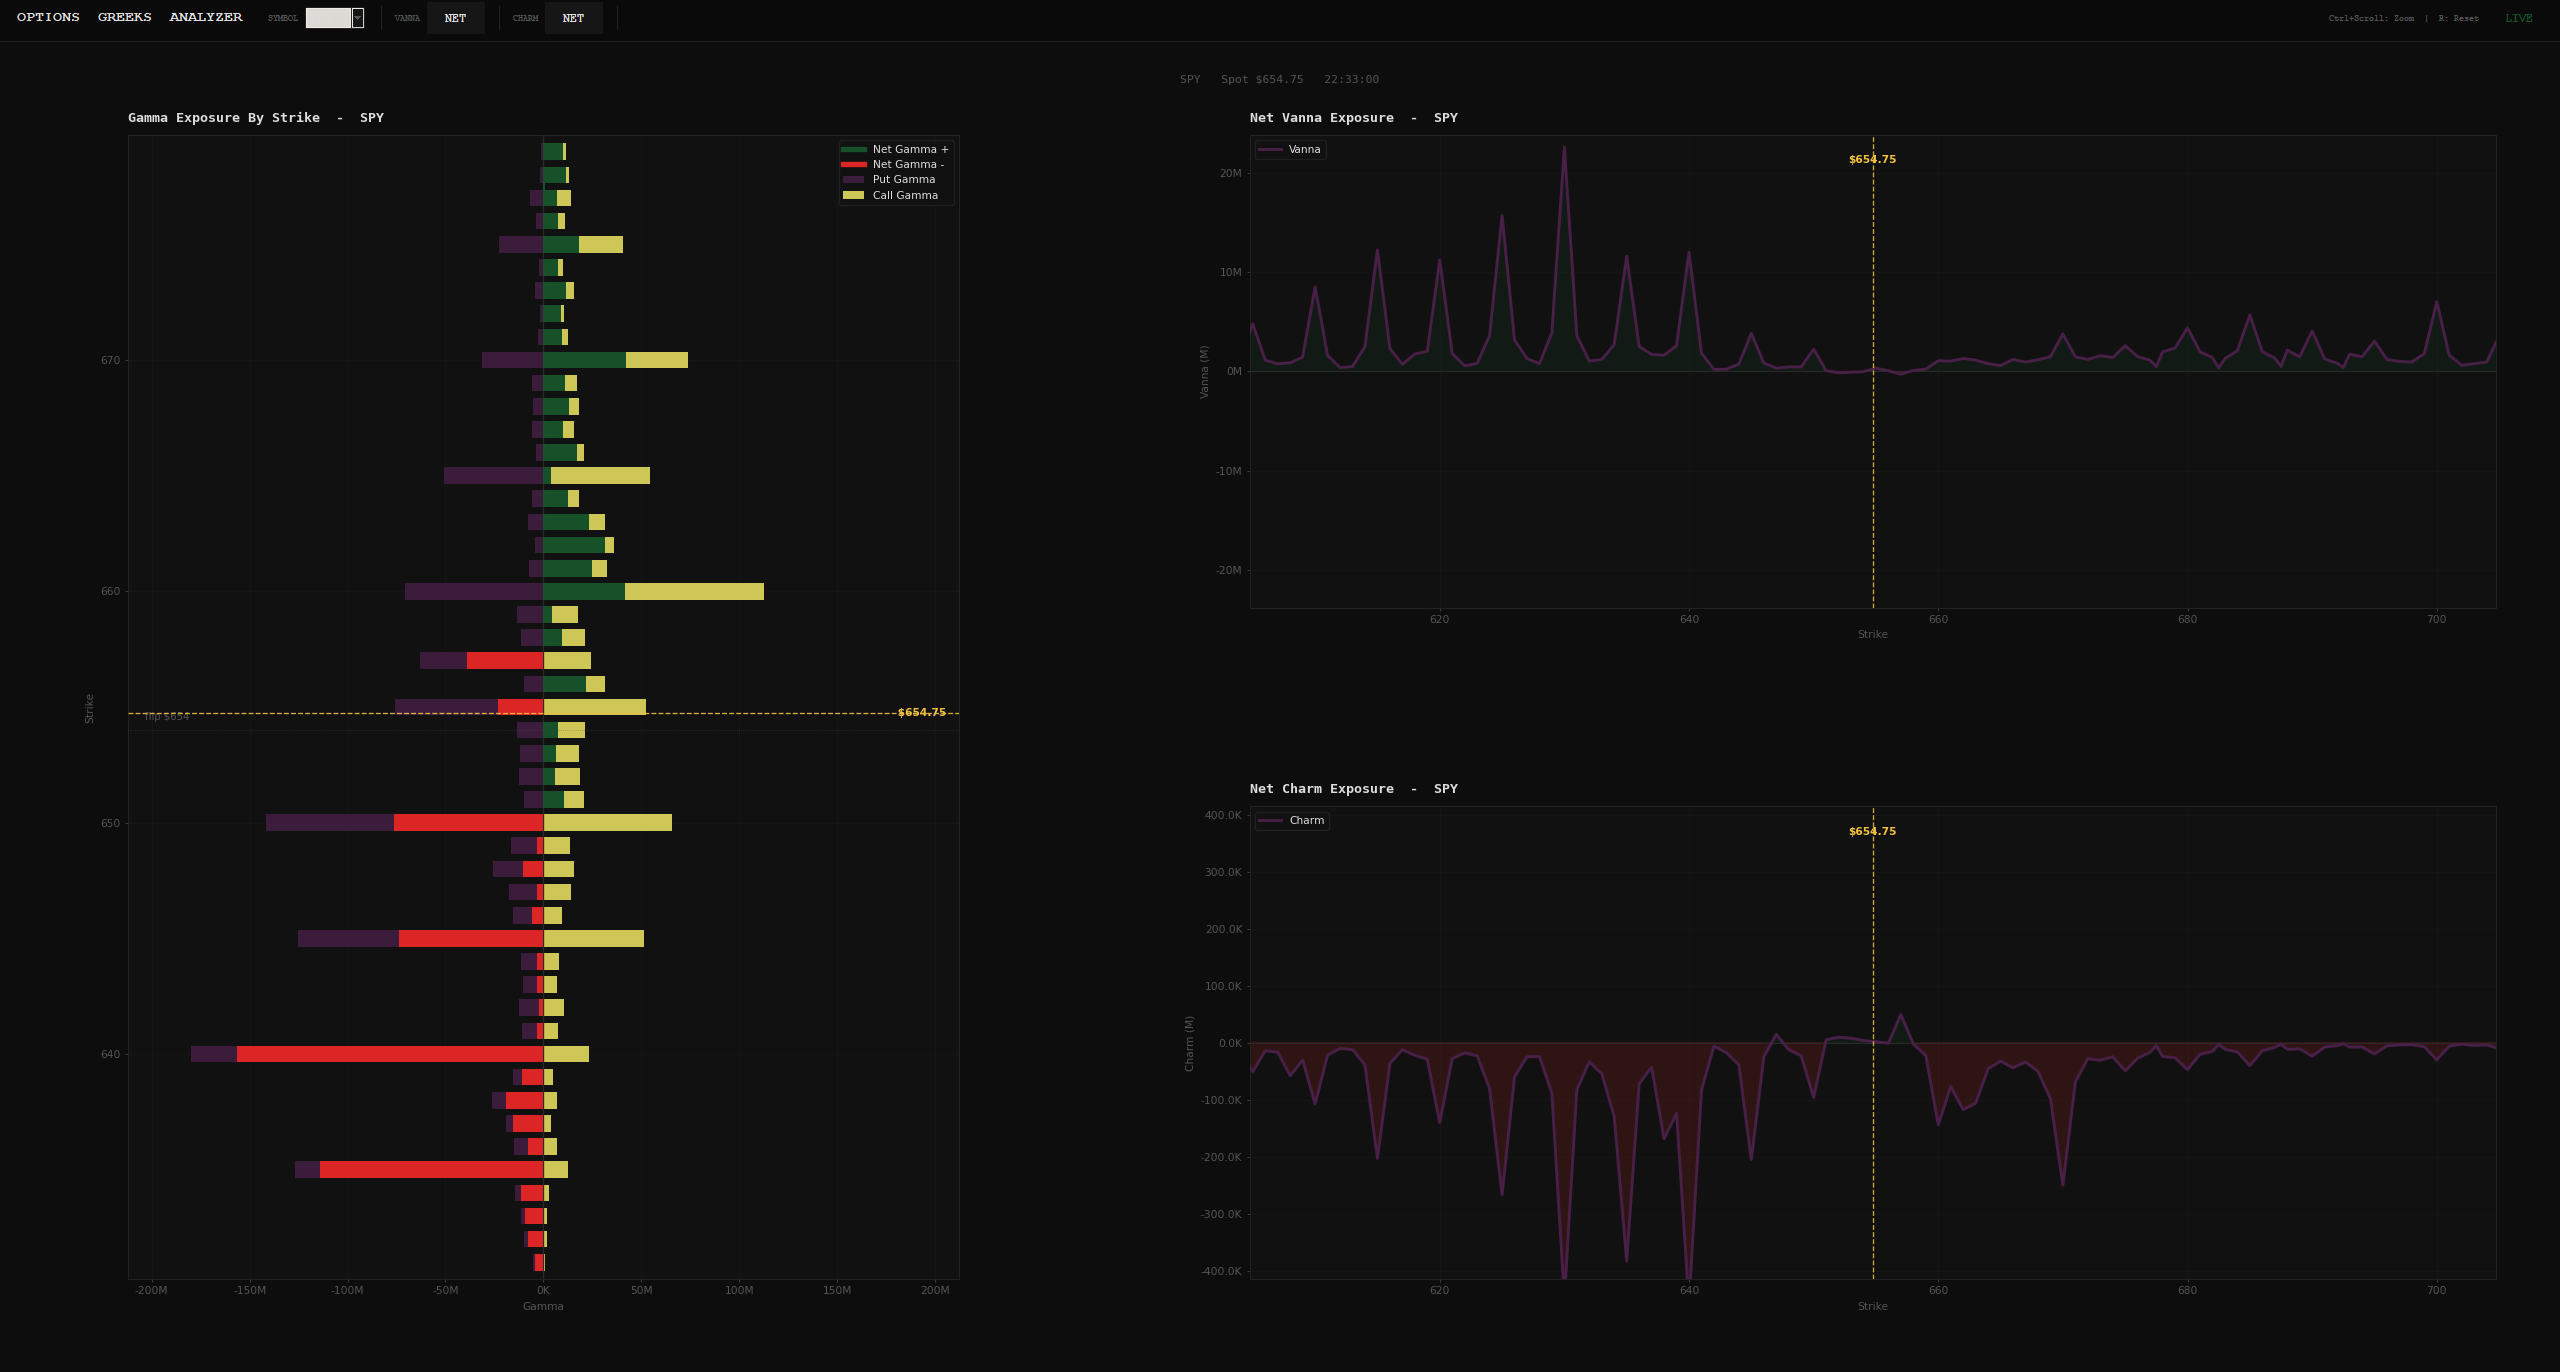
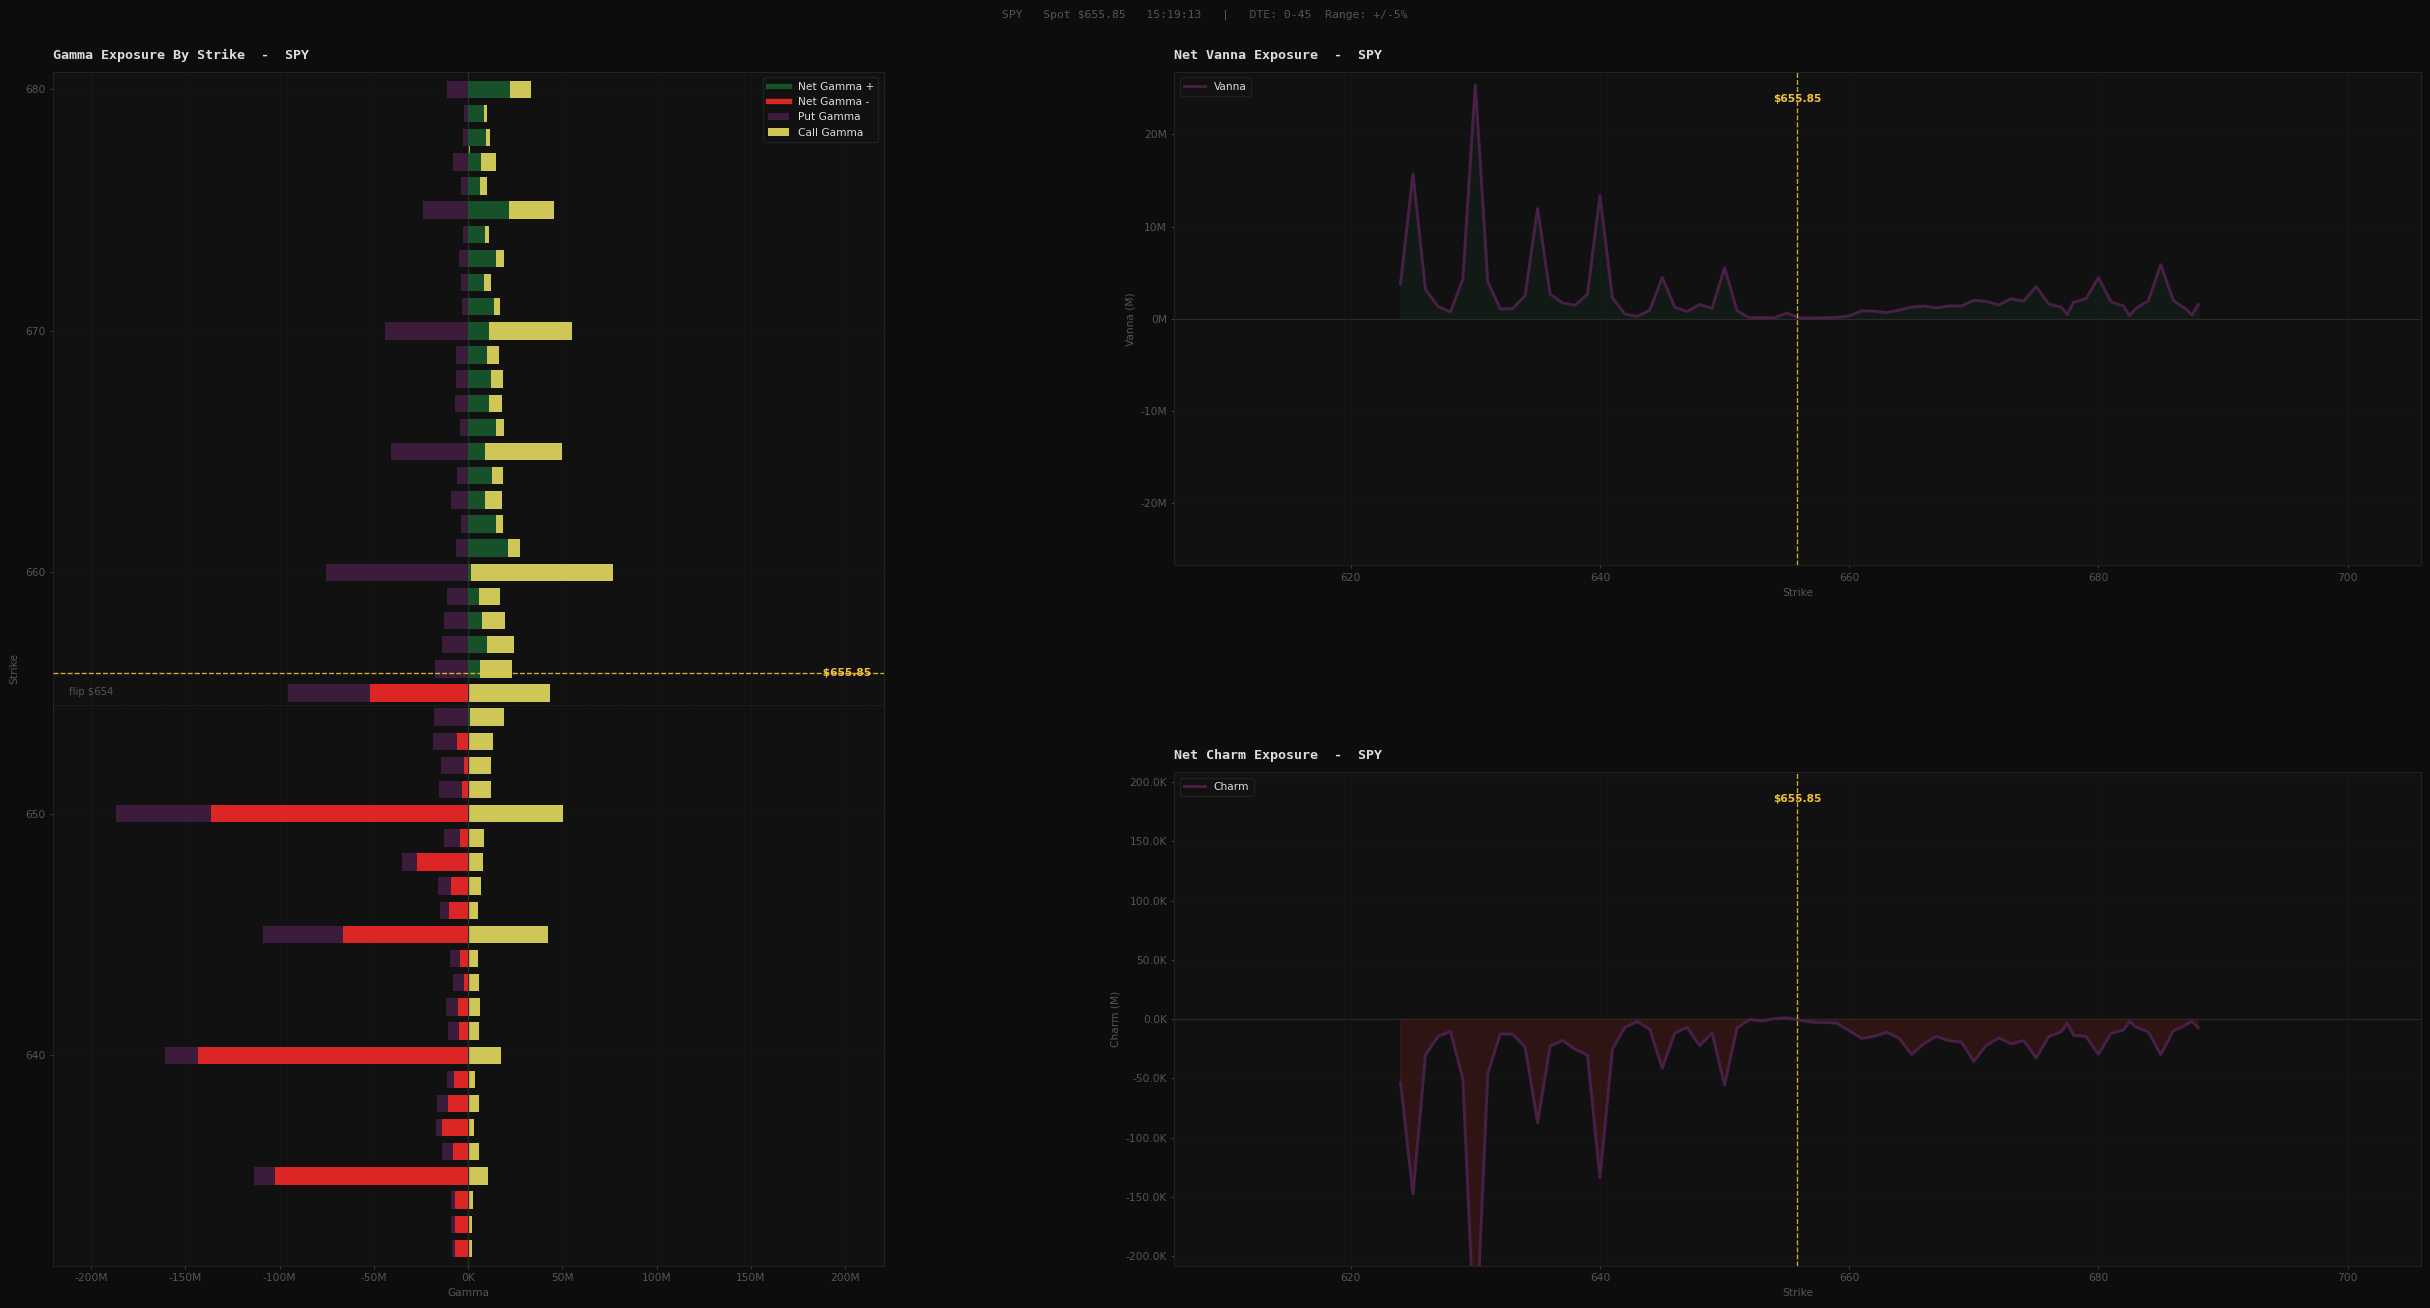
Added DTE Expiry toggles for 0dte, 0-7dte, 0-14dte, etc. Still contains aggregate under ALL. Remember 0dte will not always populate data, only on expiration day.

diff --git a/options_greeks_dashboard.py b/options_greeks_dashboard.py
@@ -8,6 +8,9 @@ Layout:
 
 Controls:
   Symbol dropdown  -> switch SPY / QQQ / DIA
+  DTE filter       -> 0DTE / 0-7 / 0-21 / 0-45
+  Expiry selector  -> isolate a single expiration date
+  Strike range     -> ±3% / ±5% / ±8% from spot
   Vanna toggle     -> Net / Call+Put split
   Charm toggle     -> Net / Call+Put split
   Ctrl+Scroll      -> zoom entire window
@@ -43,7 +46,14 @@ CLIENT_SECRET = os.environ.get("SCHWAB_CLIENT_SECRET", "YOUR_CLIENT_SECRET")
 RISK_FREE     = 0.045
 SYMBOLS       = ["SPY", "QQQ", "DIA"]
 SCHWAB_BASE   = "https://api.schwabapi.com/marketdata/v1"
-STRIKE_PCT    = 0.12
+STRIKE_PCT    = 0.08          # fetch range — generous so filters have room
+MAX_DTE       = 45            # hard cap: no LEAPS or far monthlies
+
+# DTE filter options (label -> max DTE)
+DTE_FILTERS   = {"0DTE": 0, "0-7": 7, "0-21": 21, "0-45": 45}
+
+# Strike range options (label -> pct from spot)
+STRIKE_RANGES = {"+/-3%": 0.03, "+/-5%": 0.05, "+/-8%": 0.08}
 
 C = {
     "bg":         "#0d0d0d", "panel":      "#111111",
@@ -68,7 +78,7 @@ def get_options_chain(token, symbol, spot):
     headers   = {"Authorization": f"Bearer {token}"}
     from_date = datetime.date.today().strftime("%Y-%m-%d")
     to_date   = (datetime.date.today() +
-                 datetime.timedelta(days=45)).strftime("%Y-%m-%d")
+                 datetime.timedelta(days=MAX_DTE)).strftime("%Y-%m-%d")
     params = {
         "symbol":           symbol,
         "contractType":     "ALL",
@@ -133,8 +143,11 @@ def parse_chain(chain, r=RISK_FREE):
                            ("put",  chain.get("putExpDateMap",  {}))]:
         call = (side == "call")
         for exp_key, strikes in exp_map.items():
-            try:    dte = float(exp_key.split(":")[1])
+            try:
+                exp_date = exp_key.split(":")[0]   # e.g. "2025-04-04"
+                dte      = float(exp_key.split(":")[1])
             except: continue
+            if dte > MAX_DTE: continue             # hard cap — no LEAPS
             T = dte / 365
             if T <= 0: continue
             for ks, contracts in strikes.items():
@@ -157,6 +170,7 @@ def parse_chain(chain, r=RISK_FREE):
                     "strike":       K,
                     "type":         side,
                     "dte":          dte,
+                    "expiry":       exp_date,
                     "oi":           oi,
                     # GEX: dollar-weighted, calls pos / puts neg
                     "GEX_call":     g  * mult * S if call     else 0,
@@ -171,6 +185,31 @@ def parse_chain(chain, r=RISK_FREE):
                     "CharmEX_put": -ch * mult      if not call else 0,
                 })
     return pd.DataFrame(rows)
+
+# ══════════════════════════════════════════════════════════════════════════════
+# FILTER
+# ══════════════════════════════════════════════════════════════════════════════
+
+def filter_df(df, spot, dte_label="0-45", expiry="ALL", strike_pct=0.05):
+    """Apply DTE, expiry, and strike range filters to the raw dataframe."""
+    out = df.copy()
+
+    # DTE filter
+    max_dte = DTE_FILTERS.get(dte_label, 45)
+    if dte_label == "0DTE":
+        out = out[out["dte"] <= 1]
+    else:
+        out = out[out["dte"] <= max_dte]
+
+    # Expiry filter
+    if expiry != "ALL" and "expiry" in out.columns:
+        out = out[out["expiry"] == expiry]
+
+    # Strike range filter
+    out = out[((out["strike"] - spot).abs() / spot) <= strike_pct]
+
+    return out
+
 
 # ══════════════════════════════════════════════════════════════════════════════
 # AGGREGATE
@@ -468,11 +507,14 @@ def launch_dashboard(all_data):
     sh  = root.winfo_screenheight()
     dpi = 96
 
-    sym_var     = tk.StringVar(value=list(all_data.keys())[0])
-    vanna_split = tk.BooleanVar(value=False)
-    charm_split = tk.BooleanVar(value=False)
+    sym_var      = tk.StringVar(value=list(all_data.keys())[0])
+    vanna_split  = tk.BooleanVar(value=False)
+    charm_split  = tk.BooleanVar(value=False)
+    dte_var      = tk.StringVar(value="0-45")
+    expiry_var   = tk.StringVar(value="ALL")
+    strike_var   = tk.StringVar(value="+/-5%")
 
-    # Control bar
+    # ── Control bar ────────────────────────────────────────────────────────────
     ctrl = tk.Frame(root, bg=C["ctrl"], pady=7, padx=14)
     ctrl.pack(side="top", fill="x")
 
@@ -484,9 +526,6 @@ def launch_dashboard(all_data):
         tk.Frame(ctrl, bg=C["border"], width=1).pack(
             side="left", fill="y", padx=10, pady=4)
 
-    tk.Label(ctrl, text="SYMBOL", fg=C["subtext"], bg=C["ctrl"],
-             font=("Courier New", 7)).pack(side="left", padx=(0, 4))
-
     sty = ttk.Style()
     sty.theme_use("clam")
     sty.configure("D.TCombobox",
@@ -494,12 +533,49 @@ def launch_dashboard(all_data):
         foreground=C["text"], selectbackground=C["btn_on"],
         selectforeground=C["text"], bordercolor=C["border"],
         arrowcolor=C["subtext"])
+
+    # Symbol
+    tk.Label(ctrl, text="SYMBOL", fg=C["subtext"], bg=C["ctrl"],
+             font=("Courier New", 7)).pack(side="left", padx=(0, 4))
     sym_cb = ttk.Combobox(ctrl, textvariable=sym_var,
                           values=list(all_data.keys()),
                           state="readonly", width=5,
                           style="D.TCombobox",
                           font=("Courier New", 10))
     sym_cb.pack(side="left", padx=(0, 6))
+    div()
+
+    # DTE filter
+    tk.Label(ctrl, text="DTE", fg=C["subtext"], bg=C["ctrl"],
+             font=("Courier New", 7)).pack(side="left", padx=(0, 4))
+    dte_cb = ttk.Combobox(ctrl, textvariable=dte_var,
+                          values=list(DTE_FILTERS.keys()),
+                          state="readonly", width=6,
+                          style="D.TCombobox",
+                          font=("Courier New", 10))
+    dte_cb.pack(side="left", padx=(0, 6))
+    div()
+
+    # Expiry selector
+    tk.Label(ctrl, text="EXPIRY", fg=C["subtext"], bg=C["ctrl"],
+             font=("Courier New", 7)).pack(side="left", padx=(0, 4))
+    expiry_cb = ttk.Combobox(ctrl, textvariable=expiry_var,
+                             values=["ALL"],
+                             state="readonly", width=11,
+                             style="D.TCombobox",
+                             font=("Courier New", 10))
+    expiry_cb.pack(side="left", padx=(0, 6))
+    div()
+
+    # Strike range
+    tk.Label(ctrl, text="RANGE", fg=C["subtext"], bg=C["ctrl"],
+             font=("Courier New", 7)).pack(side="left", padx=(0, 4))
+    range_cb = ttk.Combobox(ctrl, textvariable=strike_var,
+                            values=list(STRIKE_RANGES.keys()),
+                            state="readonly", width=6,
+                            style="D.TCombobox",
+                            font=("Courier New", 10))
+    range_cb.pack(side="left", padx=(0, 6))
     div()
 
     def make_toggle(label, var):
@@ -539,7 +615,7 @@ def launch_dashboard(all_data):
 
     tk.Frame(root, bg=C["border"], height=1).pack(fill="x")
 
-    # Figure layout: GEX left 40%, Vanna+Charm stacked right 60%
+    # ── Figure layout ──────────────────────────────────────────────────────────
     fig_w = sw / dpi
     fig_h = (sh - 52) / dpi
     fig   = plt.Figure(figsize=(fig_w, fig_h), facecolor=C["bg"], dpi=dpi)
@@ -610,19 +686,59 @@ def launch_dashboard(all_data):
 
     fig.canvas.mpl_connect("motion_notify_event", on_hover)
 
+    def _update_expiry_list(*_):
+        """Repopulate expiry dropdown when symbol or DTE filter changes."""
+        sym      = sym_var.get()
+        df, spot = all_data[sym]
+        dte_lbl  = dte_var.get()
+        filtered = filter_df(df, spot, dte_label=dte_lbl,
+                             expiry="ALL",
+                             strike_pct=STRIKE_RANGES.get(strike_var.get(), 0.05))
+        if "expiry" in filtered.columns:
+            expiries = sorted(filtered["expiry"].unique().tolist())
+        else:
+            expiries = []
+        expiry_cb["values"] = ["ALL"] + expiries
+        # Reset to ALL if current selection no longer valid
+        if expiry_var.get() not in ["ALL"] + expiries:
+            expiry_var.set("ALL")
+
     def render(*_):
         sym      = sym_var.get()
         df, spot = all_data[sym]
-        agg      = aggregate(df)
+
+        dte_lbl    = dte_var.get()
+        expiry_sel = expiry_var.get()
+        spct       = STRIKE_RANGES.get(strike_var.get(), 0.05)
+
+        fdf = filter_df(df, spot,
+                        dte_label=dte_lbl,
+                        expiry=expiry_sel,
+                        strike_pct=spct)
+
+        if fdf.empty:
+            for ax in [ax_gex, ax_vanna, ax_charm]:
+                ax.clear()
+                ax.set_facecolor(C["panel"])
+                ax.text(0.5, 0.5, "No data for selected filters",
+                        transform=ax.transAxes, ha="center", va="center",
+                        color=C["subtext"], fontsize=11)
+            canvas.draw()
+            return
+
+        agg = aggregate(fdf)
+
+        # Build filter label for title
+        expiry_lbl = f"  |  {expiry_sel}" if expiry_sel != "ALL" else ""
+        filter_lbl = f"DTE: {dte_lbl}  Range: {strike_var.get()}{expiry_lbl}"
 
         for ax in [ax_gex, ax_vanna, ax_charm]:
             ax.clear()
 
         draw_gex(ax_gex, agg, spot, sym)
 
-        # Store line data for hover (in same units as draw functions use)
-        nv = agg["VannEX"].values  / 1e6   # M units, matches draw_vanna
-        nc = agg["CharmEX"].values / 1e6   # M units, matches draw_charm
+        nv = agg["VannEX"].values  / 1e6
+        nc = agg["CharmEX"].values / 1e6
         _store_line(ax_vanna, agg["strike"].values, nv)
         _store_line(ax_charm, agg["strike"].values, nc)
 
@@ -630,14 +746,20 @@ def launch_dashboard(all_data):
         draw_charm(ax_charm, agg, spot, sym, charm_split.get())
 
         ts = datetime.datetime.now().strftime("%H:%M:%S")
-        fig.suptitle(f"{sym}   Spot ${spot:.2f}   {ts}",
+        fig.suptitle(f"{sym}   Spot ${spot:.2f}   {ts}   |   {filter_lbl}",
                      color=C["subtext"], fontsize=8.5,
                      x=0.5, y=0.975, fontfamily="monospace")
         canvas.draw()
         fig.savefig("dashboard.png", dpi=dpi,
                     bbox_inches="tight", facecolor=C["bg"])
 
-    sym_cb.bind("<<ComboboxSelected>>", render)
+    sym_cb.bind("<<ComboboxSelected>>", lambda e: [_update_expiry_list(), render()])
+    dte_cb.bind("<<ComboboxSelected>>", lambda e: [_update_expiry_list(), render()])
+    expiry_cb.bind("<<ComboboxSelected>>", render)
+    range_cb.bind("<<ComboboxSelected>>", render)
+
+    # Populate expiry list for initial symbol
+    _update_expiry_list()
 
     zoom = [1.0]; base_w = [sw]; base_h = [sh - 52]
 
@@ -671,8 +793,11 @@ def generate_demo_chain(spot, symbol):
     np.random.seed({"SPY": 42, "QQQ": 7, "DIA": 13}.get(symbol, 0))
     rows = []
     r    = RISK_FREE
-    for dte in [3, 7, 14, 21, 28, 45]:
-        T  = dte / 365
+    today = datetime.date.today()
+    for dte in [0, 3, 7, 14, 21, 28, 45]:
+        if dte > MAX_DTE: continue
+        T        = max(dte, 0.5) / 365
+        exp_date = (today + datetime.timedelta(days=dte)).strftime("%Y-%m-%d")
         lo = round(spot * (1 - STRIKE_PCT))
         hi = round(spot * (1 + STRIKE_PCT))
         for K in np.arange(lo, hi + 1, 1.0):
@@ -695,6 +820,7 @@ def generate_demo_chain(spot, symbol):
                     "strike":       round(K, 2),
                     "type":         side,
                     "dte":          dte,
+                    "expiry":       exp_date,
                     "oi":           oi,
                     "GEX_call":     g  * mult * spot if call     else 0,
                     "GEX_put":     -g  * mult * spot if not call else 0,
@@ -753,6 +879,8 @@ def main():
                 print(f"  {sym} ${spot:.2f}")
                 chain = get_options_chain(token, sym, spot)
                 df    = parse_chain(chain)
+                print(f"Available DTEs: {sorted(df['dte'].unique())}")
+                print(f"Available expiries: {sorted(df['expiry'].unique())}")
                 if df.empty:
                     print(f"  Empty chain for {sym}")
                     continue
